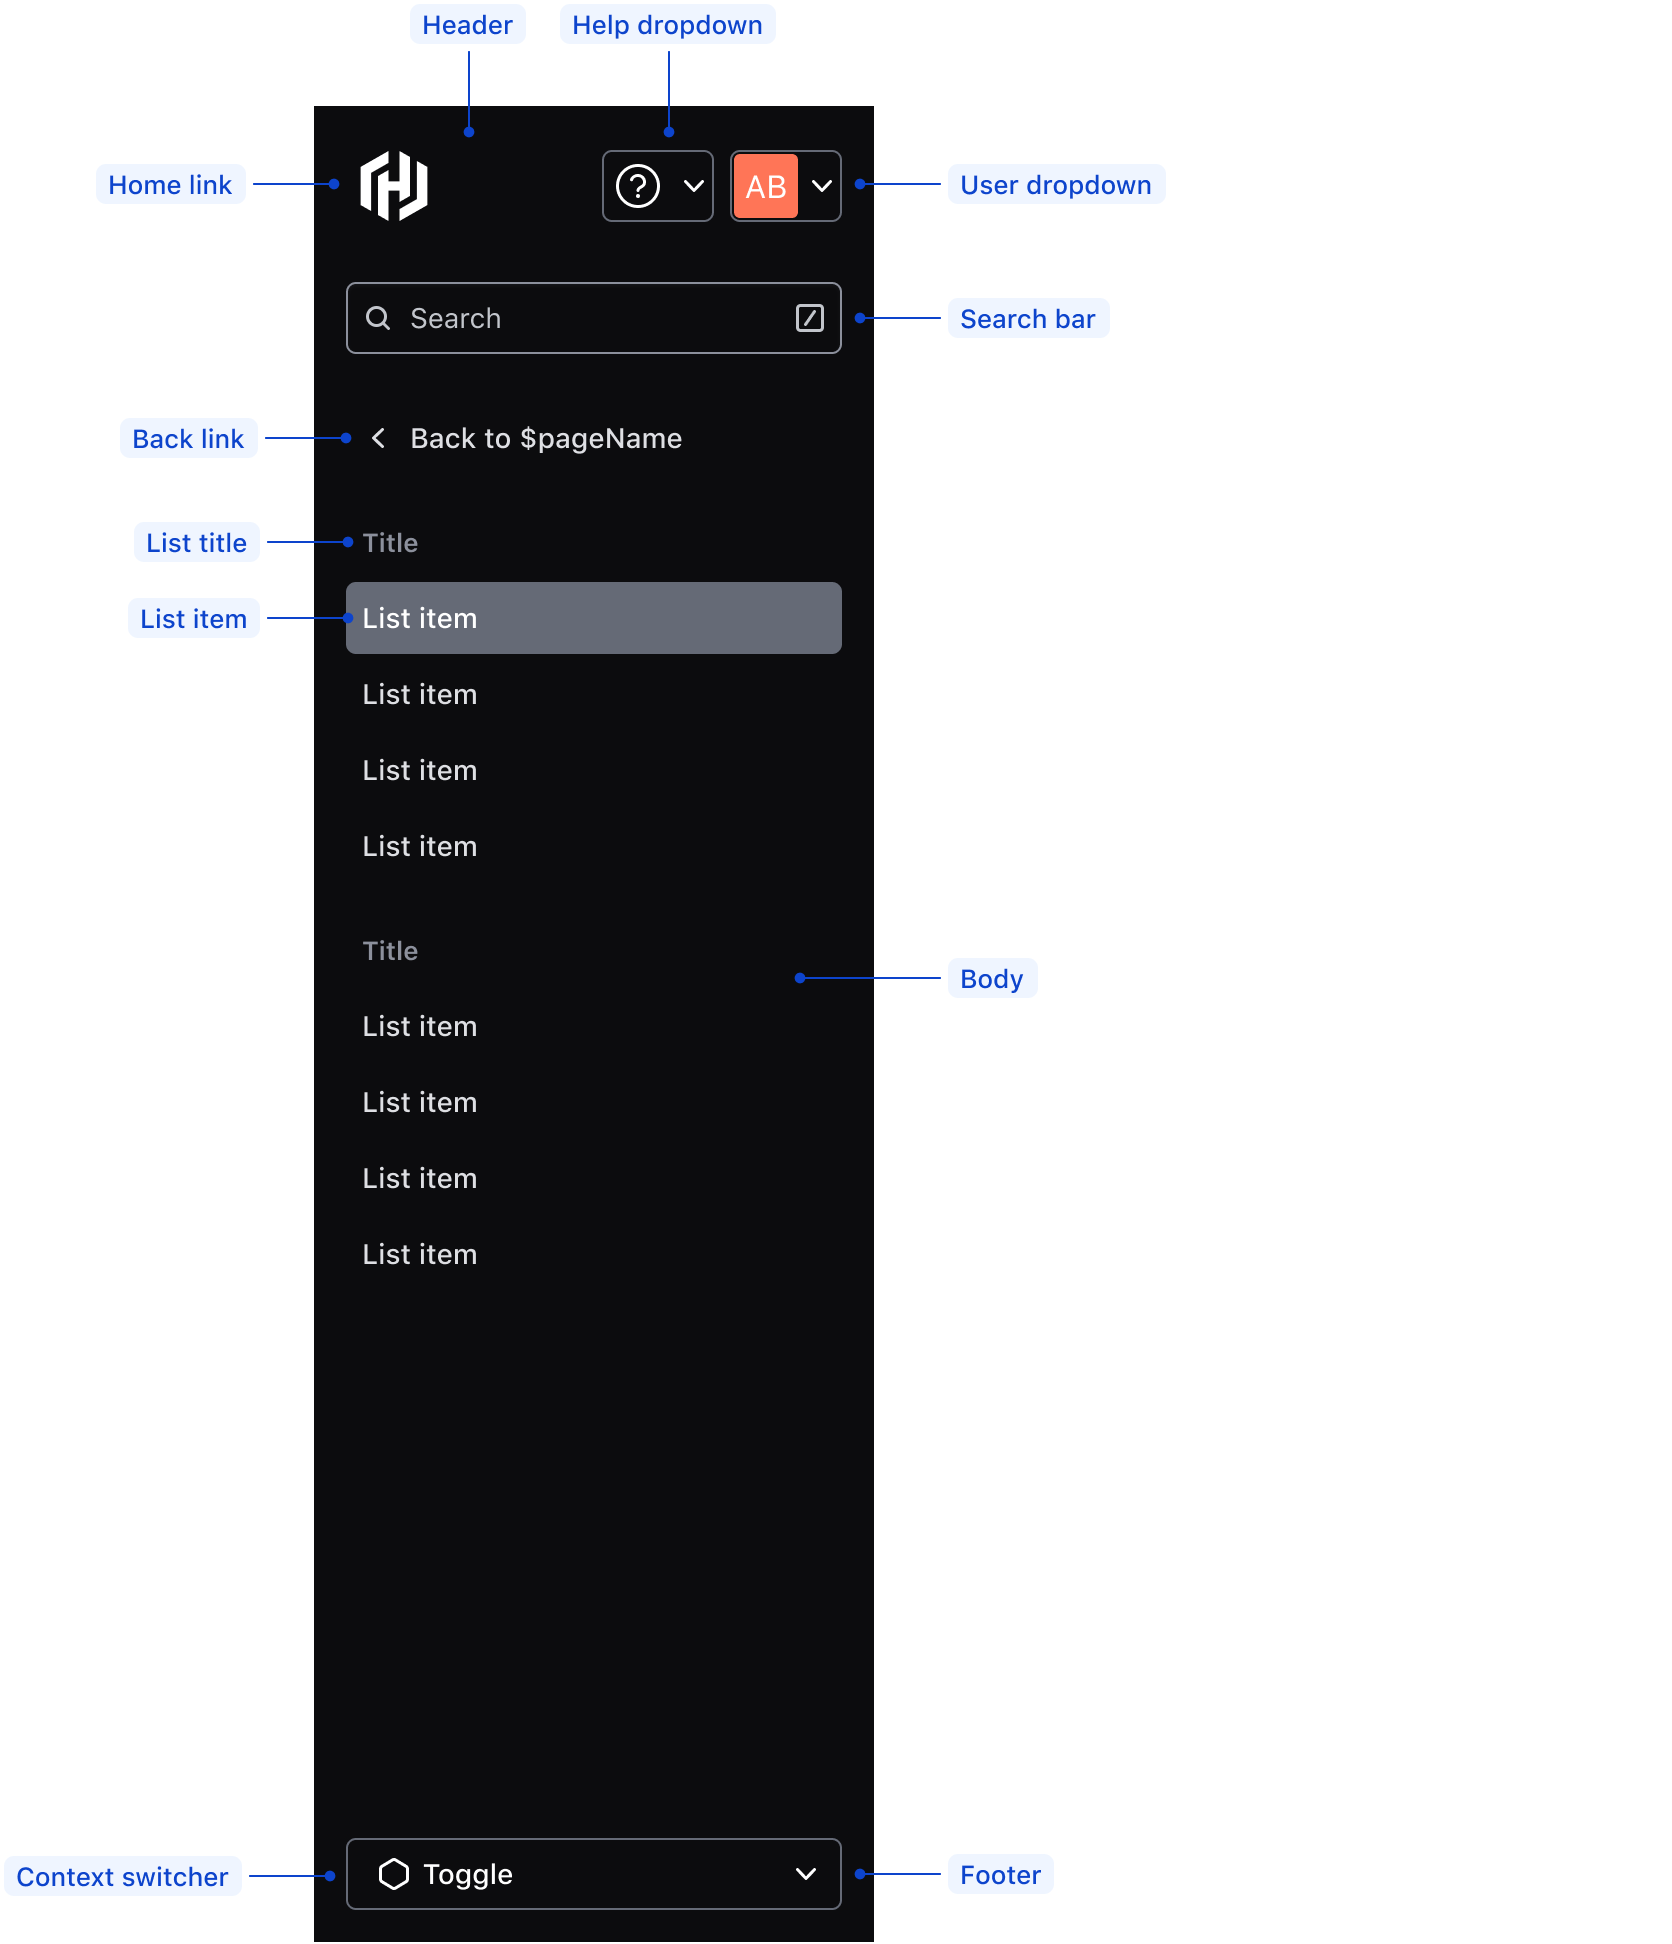
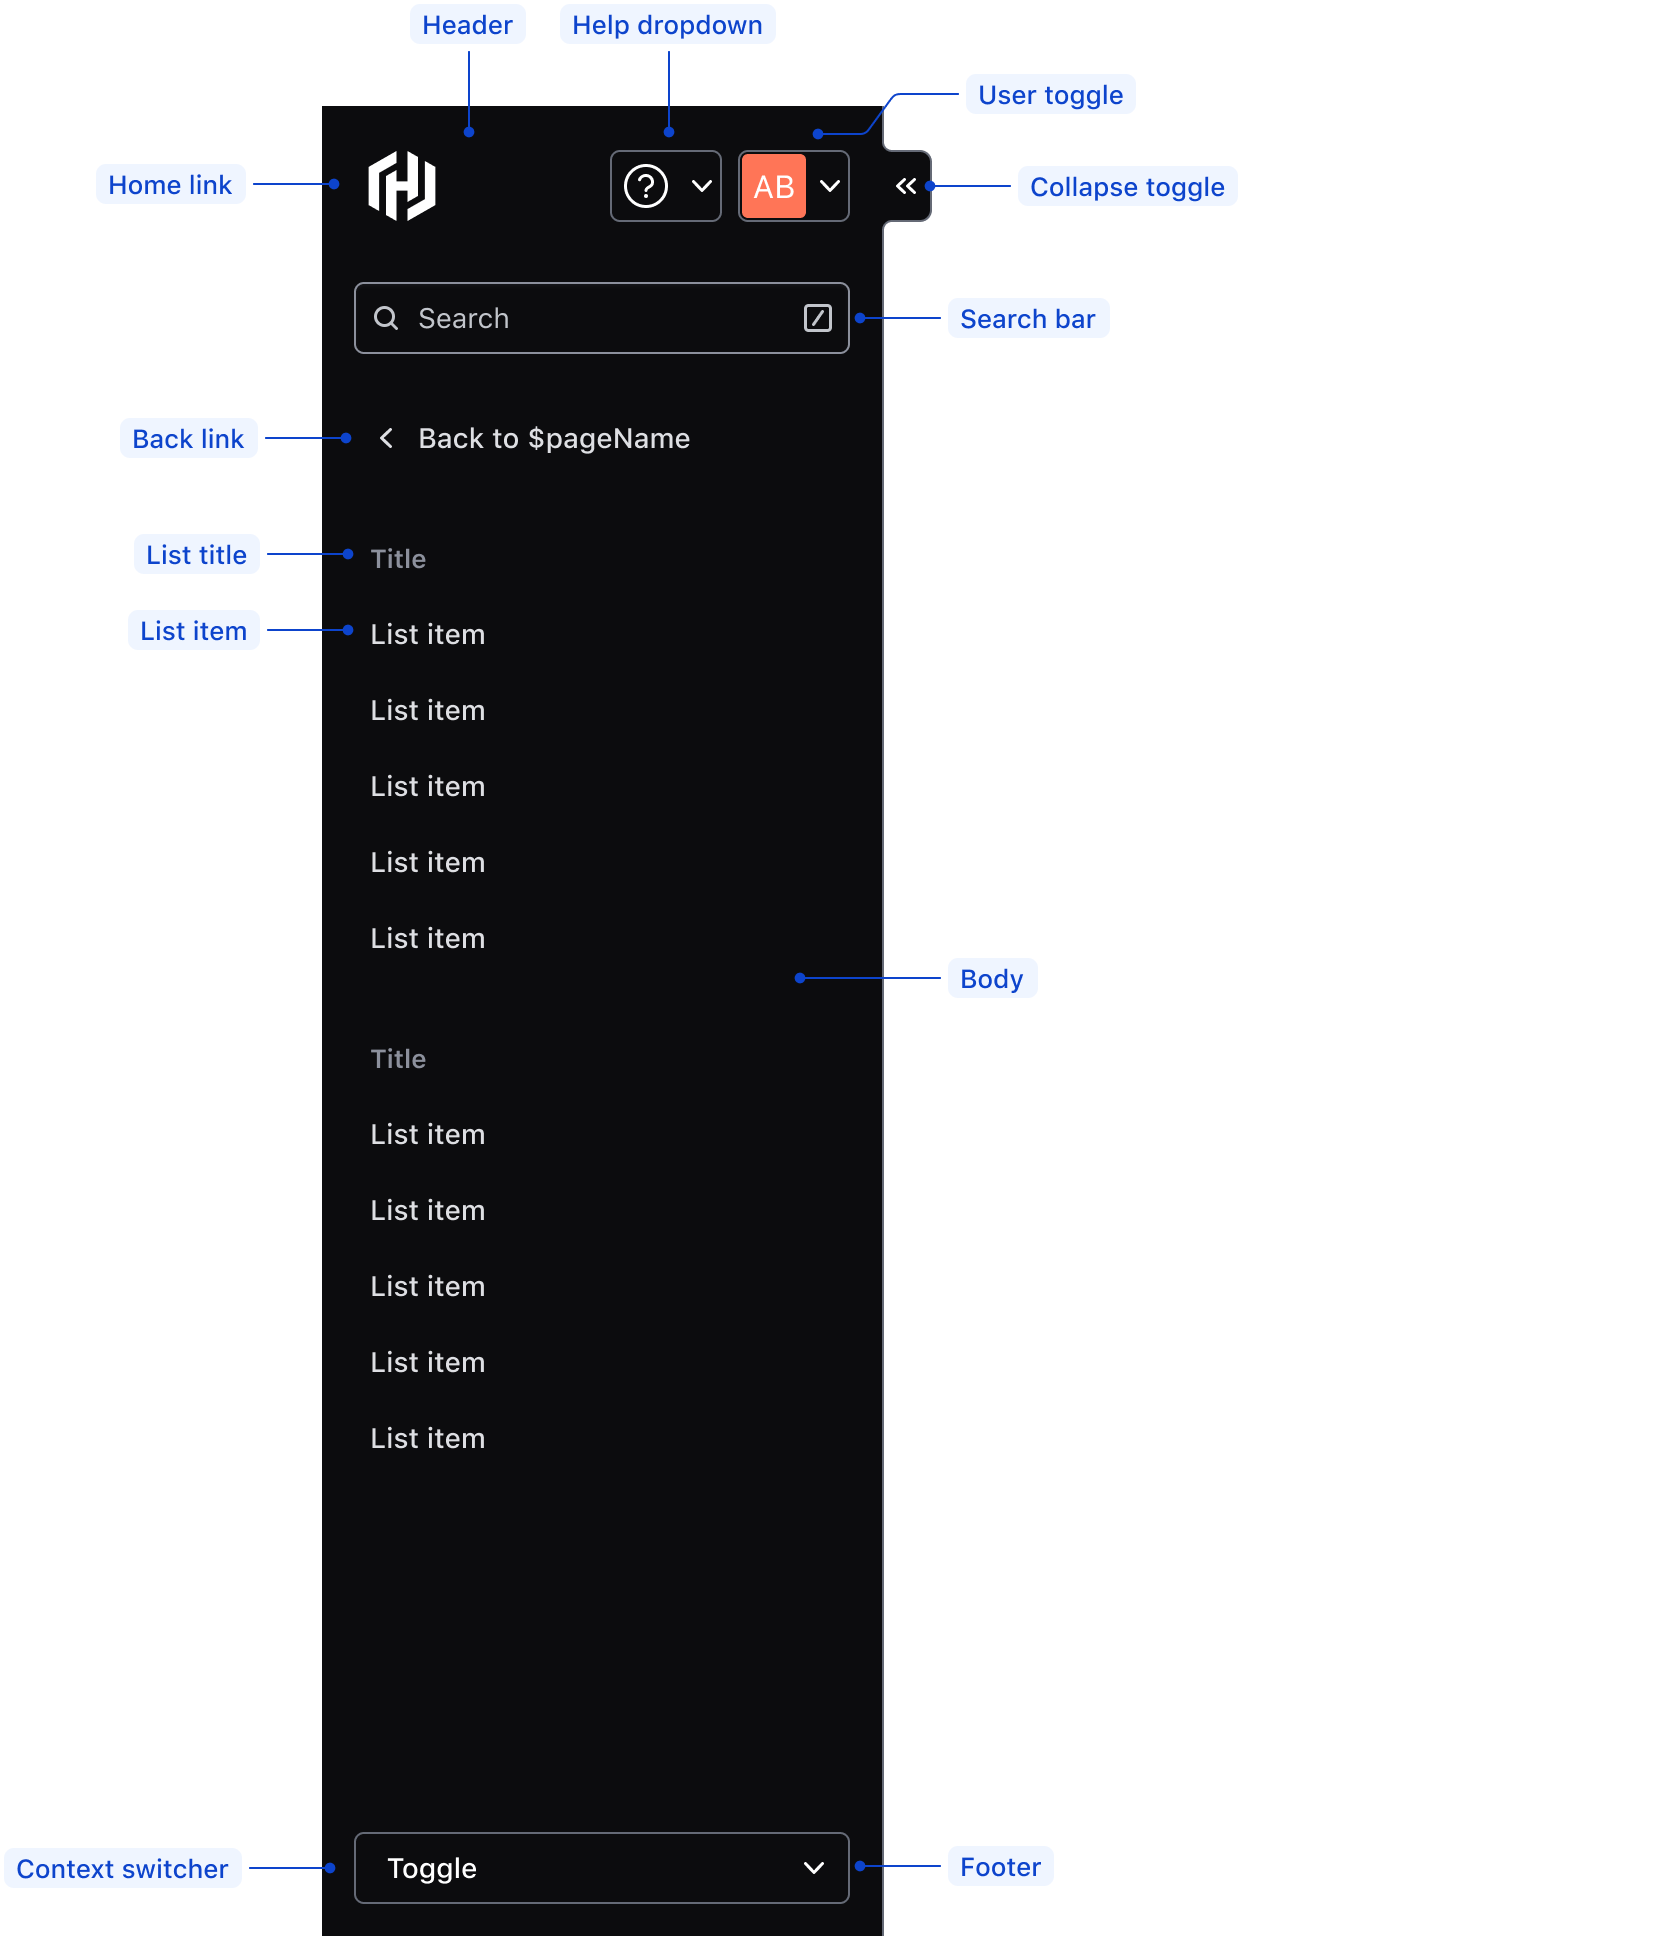
Updating imagery and beginning to add content around collapse

diff --git a/website/docs/components/side-nav/partials/specifications/anatomy.md b/website/docs/components/side-nav/partials/specifications/anatomy.md
@@ -1,19 +1,22 @@
 ## Anatomy
 
 <!-- image then table -->
+
 ![Anatomy of sideNav](/assets/components/side-nav/side-nav-anatomy.png =580x*)
 
 <!-- this is just an example, refer to other components to see how to fill this table -->
-| Element          | Usage                                           |
-|------------------|-------------------------------------------------|
-| **Header**       |                                                 |
-| Home link        | Required; either default or custom              |
-| Help dropdown    | Optional                                        |
-| User dropdown    | Required                                        |
-| Search bar       | Optional                                        |
-| **Body**         |                                                 |
-| Back button      | Required in sub-pages                           |
-| List title       | Optional                                        |
-| List item        | Required; at least one                          |
-| **Footer**       |                                                 |
-| Context switcher | Optional                                        |
+
+| Element          | Usage                              |
+| ---------------- | ---------------------------------- |
+| Collapse Trigger | Optional                           |
+| **Header**       |                                    |
+| Home link        | Required; either default or custom |
+| Help dropdown    | Optional                           |
+| User dropdown    | Required                           |
+| Search bar       | Optional                           |
+| **Body**         |                                    |
+| Back button      | Required in sub-pages              |
+| List title       | Optional                           |
+| List item        | Required; at least one             |
+| **Footer**       |                                    |
+| Context switcher | Optional                           |

diff --git a/website/docs/components/side-nav/partials/guidelines/guidelines.md b/website/docs/components/side-nav/partials/guidelines/guidelines.md
@@ -129,3 +129,11 @@ The SideNav should always be positioned on the left side of the viewport, occupy
 On smaller viewports, the SideNav should collapse to maximize the available real estate on tablet and mobile devices. By tapping the menu icon, users can expand and access the full menu when needed.
 
 ![Responsive side-nav](/assets/components/side-nav/sidenav-position-and-responsive.png)
+
+## Collapse functionality
+
+The SideNav supports a function for the end-user to expand and collapse the component via the `isCollapsible` property. If set to true, a button at the edge of the SideNav will be displayed, allowing them to determine if the SideNav is collapsed independent of the viewport width (to a certain extent).
+
+![SideNav collapse function](/assets/components/side-nav/sidenav-collapse-interaction.png)
+
+On smaller viewports the SideNav will be rendered in its collapsed state **by default** and will overlay the main page content it its expanded state.
